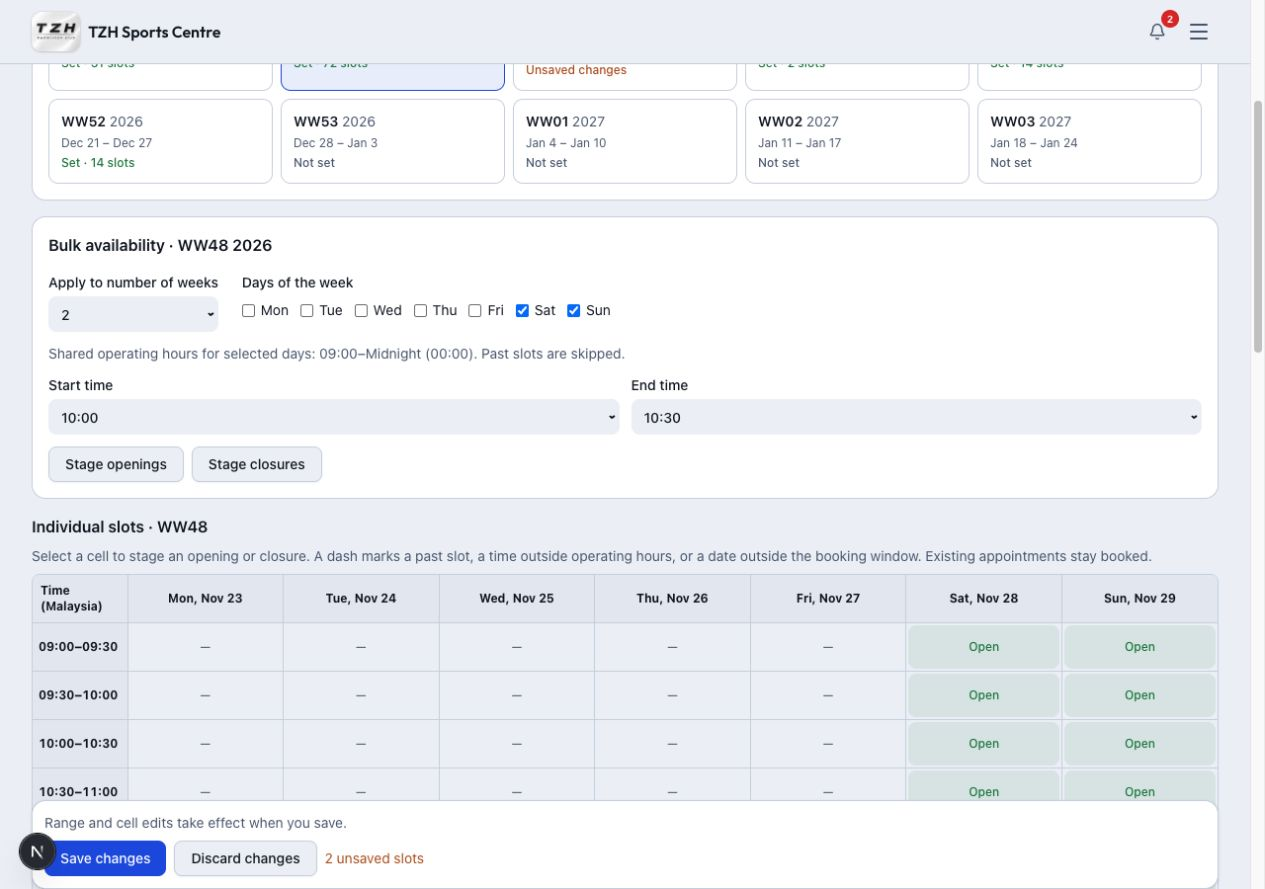
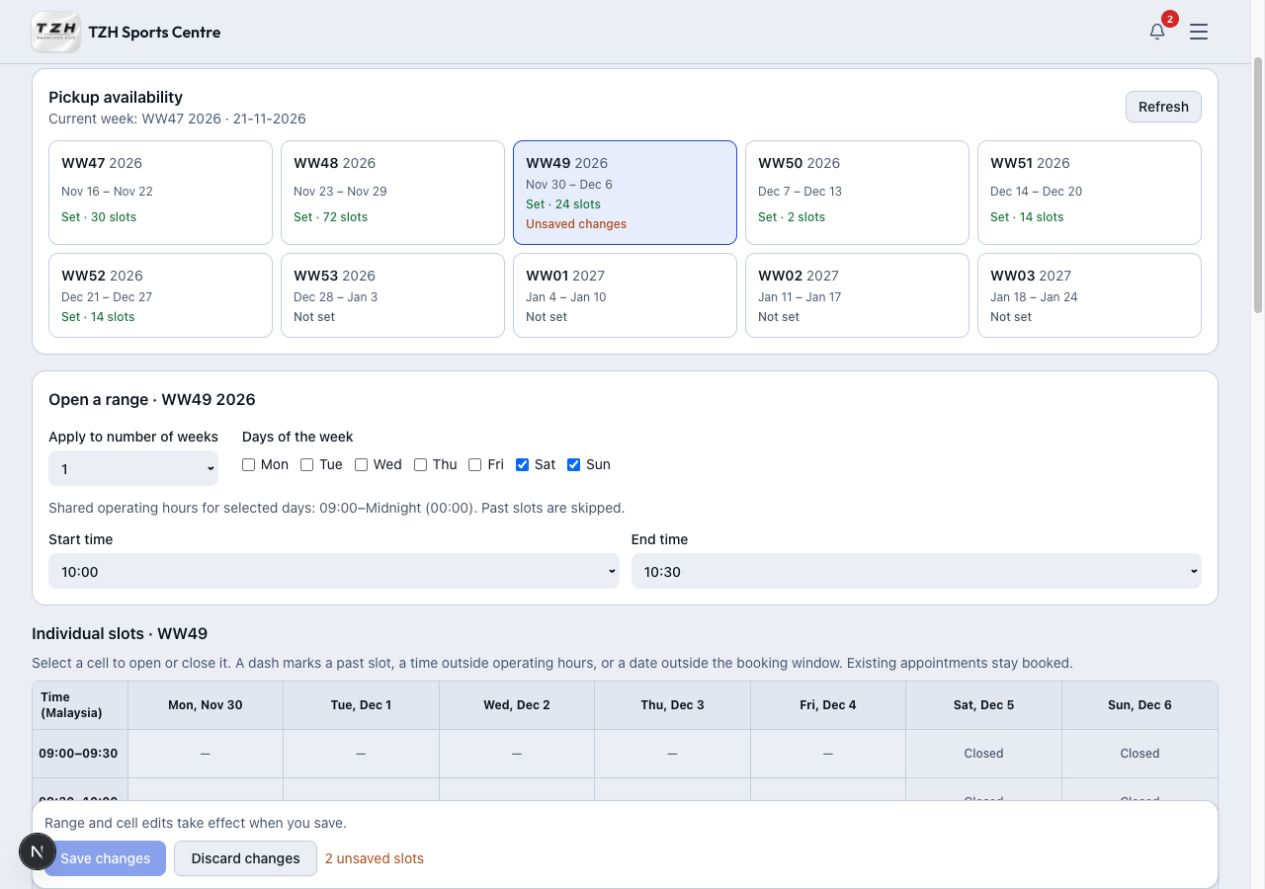
docs: show direct save for stringing availability

diff --git a/website/stringing.md b/website/stringing.md
@@ -21,13 +21,13 @@ For a complete example, follow [one customer visit from request through collecti
 
 **Admin → Stringing → Pickup availability.** The page shows today's date and current week number. Choose a **WW** card. **Not set** means the week has no upcoming published slots. A **Set** card shows how many slots are published.
 
-Under **Bulk availability**, choose how many weeks and which days to update. Pick a start and end time within their shared operating hours, then choose **Stage openings** or **Stage closures**.
+Under **Open a range**, choose the weeks and days, then pick a start and end time. The grid previews the openings immediately.
 
-![Staged openings across two numbered weeks](../images/stringing/pickup-availability-grid.jpg)
+![A time range selected and ready to save](../images/stringing/pickup-availability-grid.jpg)
 
-Under **Individual slots**, select a cell to stage an opening or closure. On a phone, swipe sideways to reach later days. **Closed · booked** keeps the existing appointment.
+Under **Individual slots**, select a cell to open or close it. On a phone, swipe sideways to reach later days. **Closed · booked** keeps the existing appointment.
 
-Select **Save changes** to apply all staged changes. Use **Discard changes** to clear the draft.
+Select **Save changes** to apply the range and any cell edits. Use **Discard changes** to clear the draft.
 
 ![An unsaved cell edit and the Save changes button](../images/stringing/pickup-availability-cell-mobile.jpg)
 

diff --git a/changelog/2026-11-16.md b/changelog/2026-11-16.md
@@ -28,4 +28,4 @@
 
 - [Set stringing availability by week number or change one slot](../website/stringing.md). Awaiting deployment.
 
-- [Review and save stringing availability edits](../website/stringing.md) using time choices based on the selected days’ operating hours. Awaiting deployment.
+- [Save a range or individual stringing slots](../website/stringing.md) directly from the time selectors and weekly table. Awaiting deployment.
